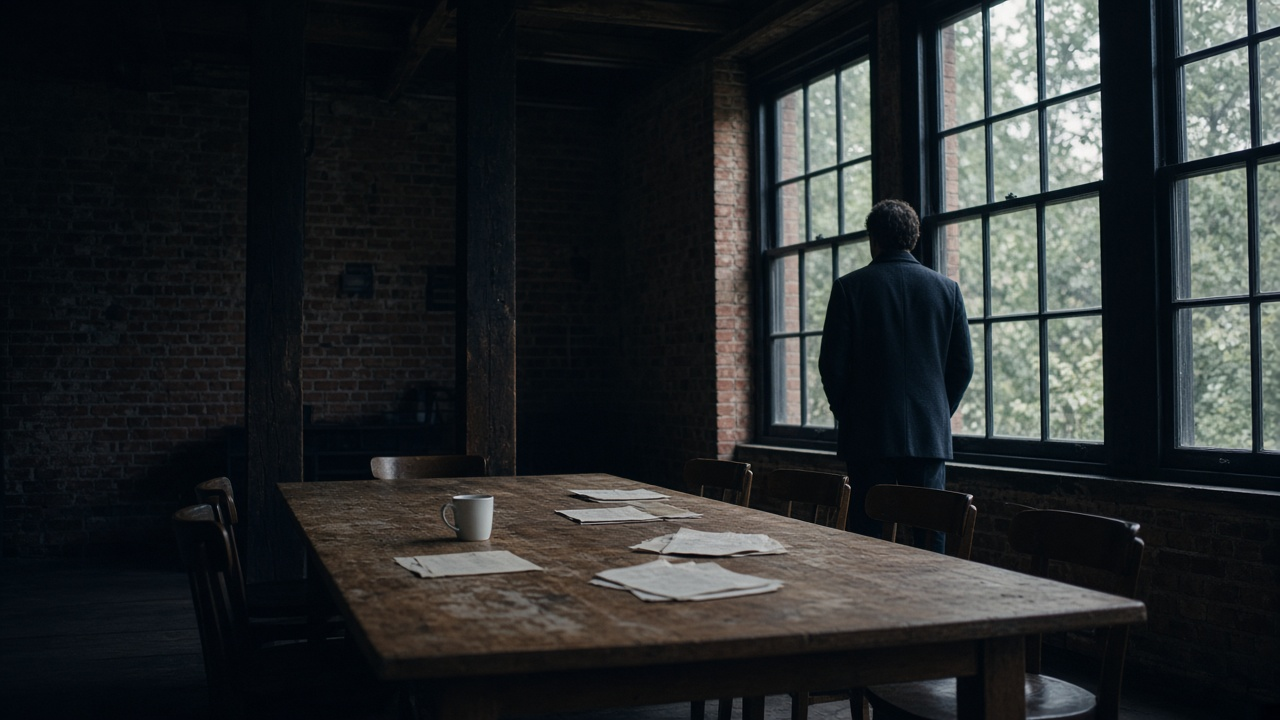
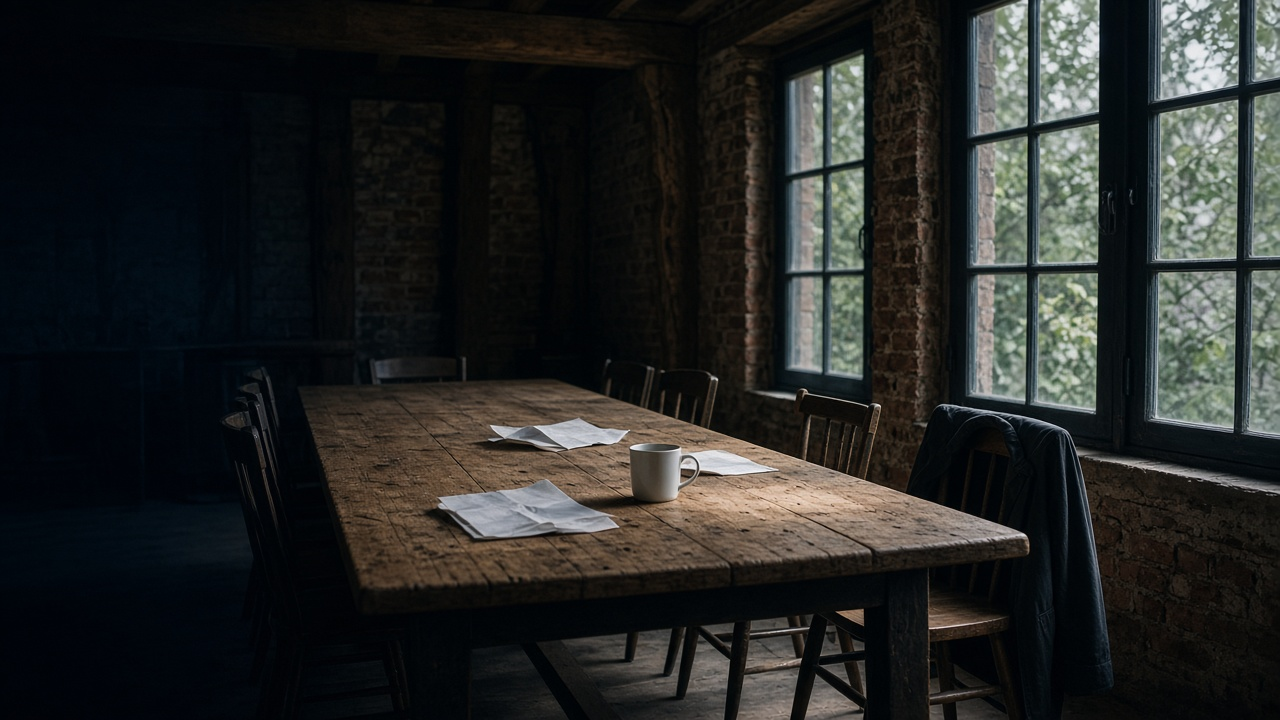
Cut repeated back-of-head photos from the homepage.
Four of five images showed someone turned away. The hero and the session tile are now empty rooms, and the CEO tile is a close-up of hands. Only the machinist remains as a person.

diff --git a/src/routes/index.tsx b/src/routes/index.tsx
@@ -34,9 +34,9 @@ const nav = [
 ];
 
 const services = [
-  { img: directionImg, w: 864, h: 1152, alt: "Someone at a work table, seen from behind", tag: "Fractional CEO", title: "Direction, decisions and a team pulling the same way", body: "Senior leadership to set strategy and lead the business into its next stage — without a full-time executive hire." },
+  { img: directionImg, w: 864, h: 1152, alt: "Two people's hands over a blank sheet of paper on a table", tag: "Fractional CEO", title: "Direction, decisions and a team pulling the same way", body: "Senior leadership to set strategy and lead the business into its next stage — without a full-time executive hire." },
   { img: opsImg, w: 864, h: 1152, alt: "A machinist at a bench in a small workshop", tag: "Fractional COO", title: "Operations that keep up with the ambition", body: "Process, structure and cadence for businesses that have outgrown how they run." },
-  { img: sessionImg, w: 864, h: 1152, alt: "Two people working at a table in a plain meeting room", tag: "Strategy & Execution", title: "A plan you can actually run on Monday", body: "Fewer priorities, clear owners, a weekly rhythm — and someone accountable for keeping it moving." },
+  { img: sessionImg, w: 864, h: 1152, alt: "A small meeting room after a session, with notebooks and a coat on a chair", tag: "Strategy & Execution", title: "A plan you can actually run on Monday", body: "Fewer priorities, clear owners, a weekly rhythm — and someone accountable for keeping it moving." },
   { img: workshopImg, w: 1280, h: 720, alt: "A brick workshop at dusk, roller door open", tag: "Growth & Value", title: "Building a business that's worth more", body: "Focus on the levers that matter for revenue, margin and long-term enterprise value." },
 ];
 
@@ -134,7 +134,7 @@ function Hero({ onFilm }: { onFilm: () => void }) {
   return (
     <section id="top" className="relative h-[100svh] min-h-[38rem] overflow-hidden bg-navy-deep text-navy-foreground">
       <div data-hero-media className="absolute inset-x-0 -top-[14%] h-[128%]">
-        <img data-hero-still src={heroImg} alt="A meeting room with someone standing at the window" width={1280} height={720} fetchPriority="high" className="h-full w-full object-cover object-[70%_center]" />
+        <img data-hero-still src={heroImg} alt="An empty meeting room with papers left on a long oak table" width={1280} height={720} fetchPriority="high" className="h-full w-full object-cover object-[70%_center]" />
       </div>
       <div className="absolute inset-0 bg-hero-overlay opacity-80" aria-hidden />
       <div className="absolute inset-0 bg-hero-fade" aria-hidden />
